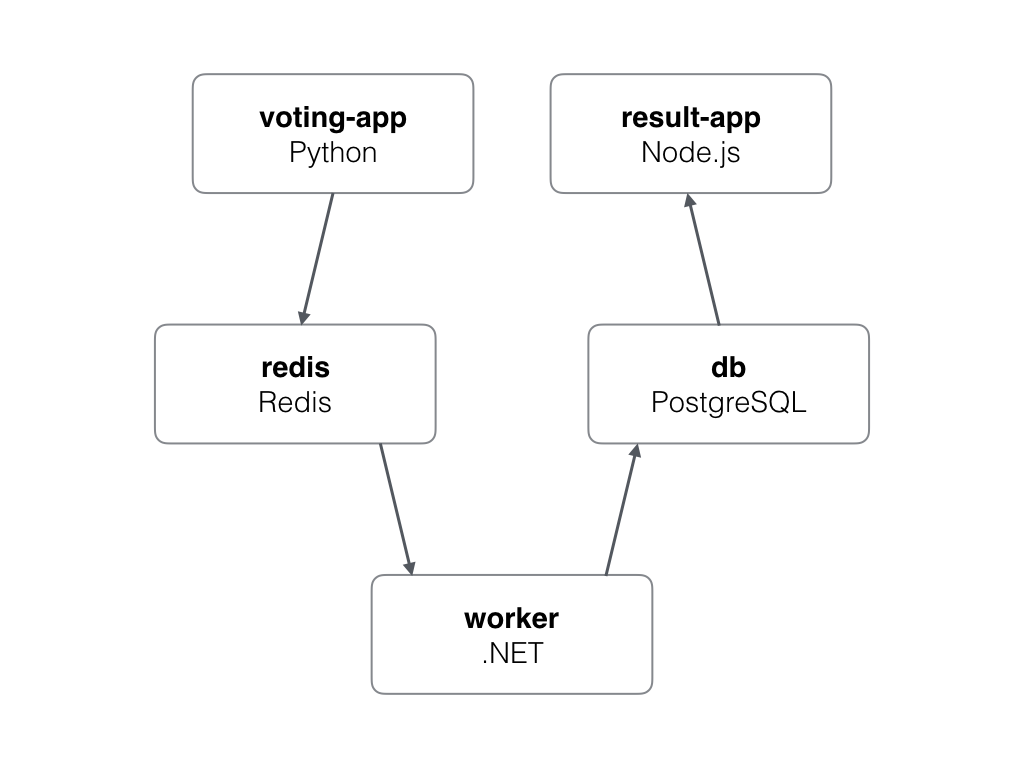
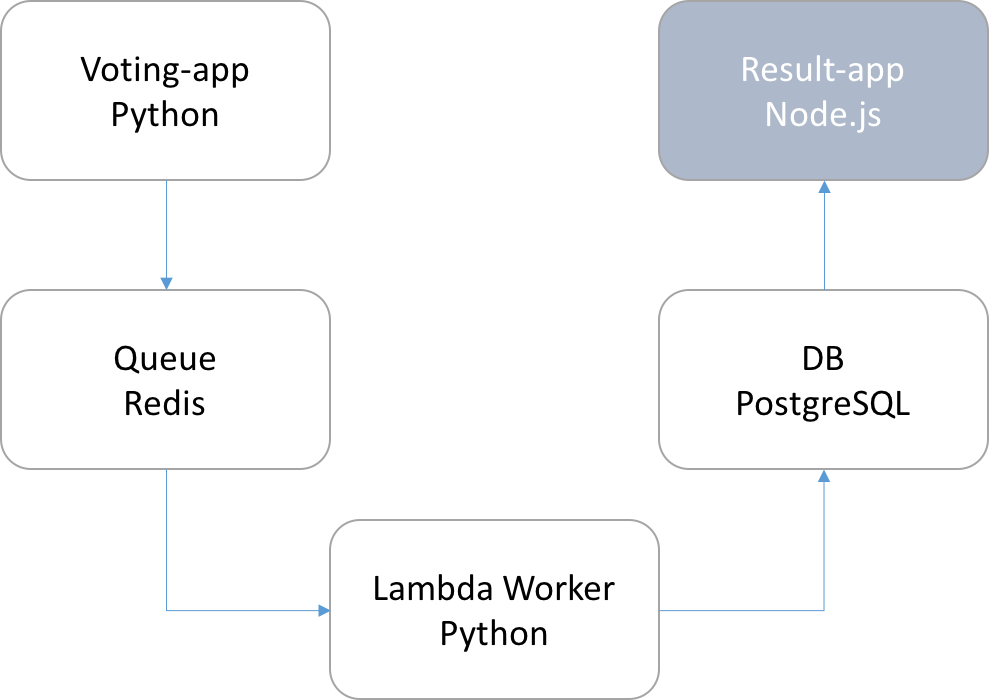
change readme and archi

diff --git a/README.md b/README.md
@@ -1,25 +1,19 @@
-Example Voting App
+Voting App
 =========
+This repository contain the RESULT part of the complete voting application
+* Result part: [https://github.com/CYYG/catvsdog-worker](https://github.com/CYYG/catvsdog-worker)
+* Vote part: [https://github.com/CYYG/catvsdog-vote](https://github.com/CYYG/catvsdog-vote)
+* Lambda Worker: [https://github.com/CYYG/catvsdog-result](https://github.com/CYYG/catvsdog-result)
+* Terraform: [https://github.com/ralbon/AWS-BBL-Infra](https://github.com/ralbon/AWS-BBL-Infra)
 
 Getting started
 ---------------
-
-Download [Docker](https://www.docker.com/products/overview). If you are on Mac or Windows, [Docker Compose](https://docs.docker.com/compose) will be automatically installed. On Linux, make sure you have the latest version of [Compose](https://docs.docker.com/compose/install/). If you're using [Docker for Windows](https://docs.docker.com/docker-for-windows/) on Windows 10 pro or later, you must also [switch to Linux containers](https://docs.docker.com/docker-for-windows/#switch-between-windows-and-linux-containers).
 
 Run in this directory:
 ```
 docker-compose up
 ```
-The app will be running at [http://localhost:5000](http://localhost:5000), and the results will be at [http://localhost:5001](http://localhost:5001).
-
-Alternately, if you want to run it on a [Docker Swarm](https://docs.docker.com/engine/swarm/), first make sure you have a swarm. If you don't, run:
-```
-docker swarm init
-```
-Once you have your swarm, in this directory run:
-```
-docker stack deploy --compose-file docker-stack.yml vote
-```
+The app will display the result interface at [http://localhost:5001](http://localhost:5000)
 
 Architecture
 -----
@@ -28,12 +22,12 @@ Architecture
 
 * A Python webapp which lets you vote between two options
 * A Redis queue which collects new votes
-* A .NET worker which consumes votes and stores them in…
+* A Python worker (designed for lambda) which consumes votes and stores them in…
 * A Postgres database backed by a Docker volume
-* A Node.js webapp which shows the results of the voting in real time
+* **A Node.js webapp which shows the results of the voting in real time (THIS REPO)**
 
 
 Note
 ----
 
-The voting application only accepts one vote per client. It does not register votes if a vote has already been submitted from a client.# bbl-voting-app
+The voting application only accepts one vote per client. It does not register votes if a vote has already been submitted from a client.
